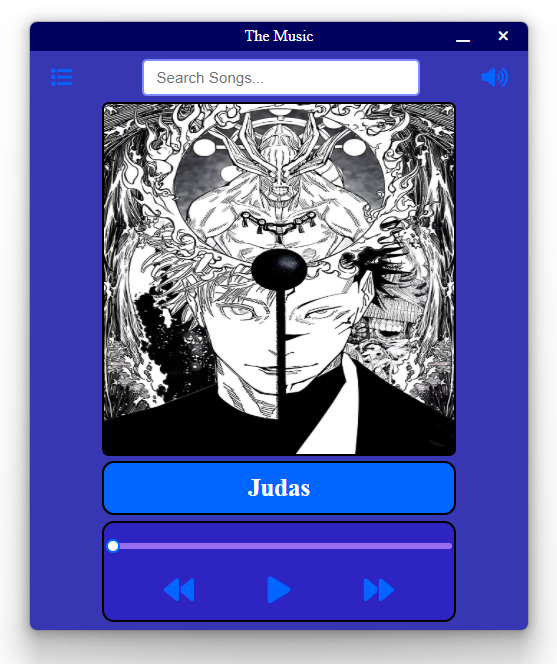
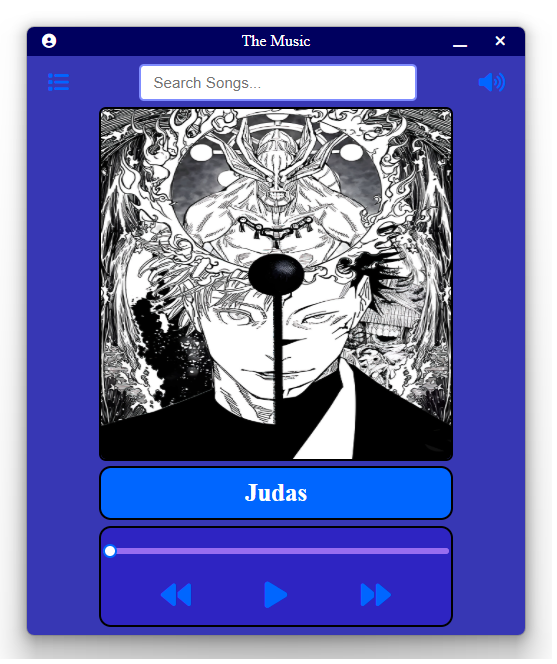
Updated images

Changed region(s): [[0.0305, 0.0301, 0.9767, 0.9639], [0.0305, 0.994, 0.9461, 1.0]]

diff --git a/main.js b/main.js
@@ -1,9 +1,14 @@
 const images = [
     {src: 'assets/img1.png', description: 'This is the starting page of the music app, features a play button, previous and next, search, volume controls, and an all songs view.' },
-    {src: 'assets/img2.png', description: 'The search function filters based on characters in song titles.'},
-    {src: 'assets/img3.png', description: 'Having no letters showcases the top 3 songs from the list'},
-    {src: 'assets/img4.png', description: 'All songs view showcases all available songs, the user can select a song from this list'},
-    {src: 'assets/img5.png', description: 'Each song has its own cover image and title.'},
+    {src: 'assets/img2.png', description: 'Each song has its own cover image and title.'},
+    {src: 'assets/img3.png', description: 'The search function filters based on characters in song titles.'},
+    {src: 'assets/img4.png', description: 'Having no letters showcases the top 3 songs from the list'},
+    {src: 'assets/img5.png', description: 'All songs view showcases all available songs, the user can select a song from this list'},
+    {src: 'assets/img6.png', description: 'This view also has a Delete toggle.'},
+    {src: 'assets/img7.png', description: 'With the toggle on, clicking a song from the list will prompt the deletion of the song.'},
+    {src: 'assets/img8.png', description: 'There is also a New Song button, clicking it will prompt the user to upload an audio file, cover image, and song title, to add the song.'},
+    {src: 'assets/img9.png', description: 'At the top left of the app, a credits button can be clicked to show links to my github and portfolio website.'},
+
 ]
 
 let index = 0;
